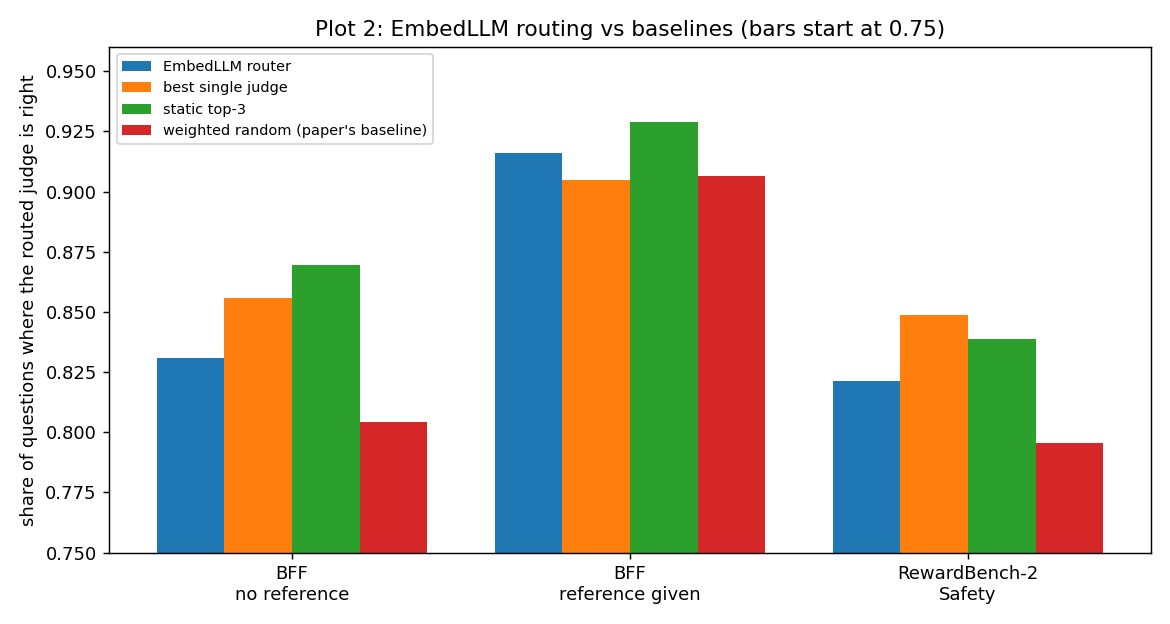
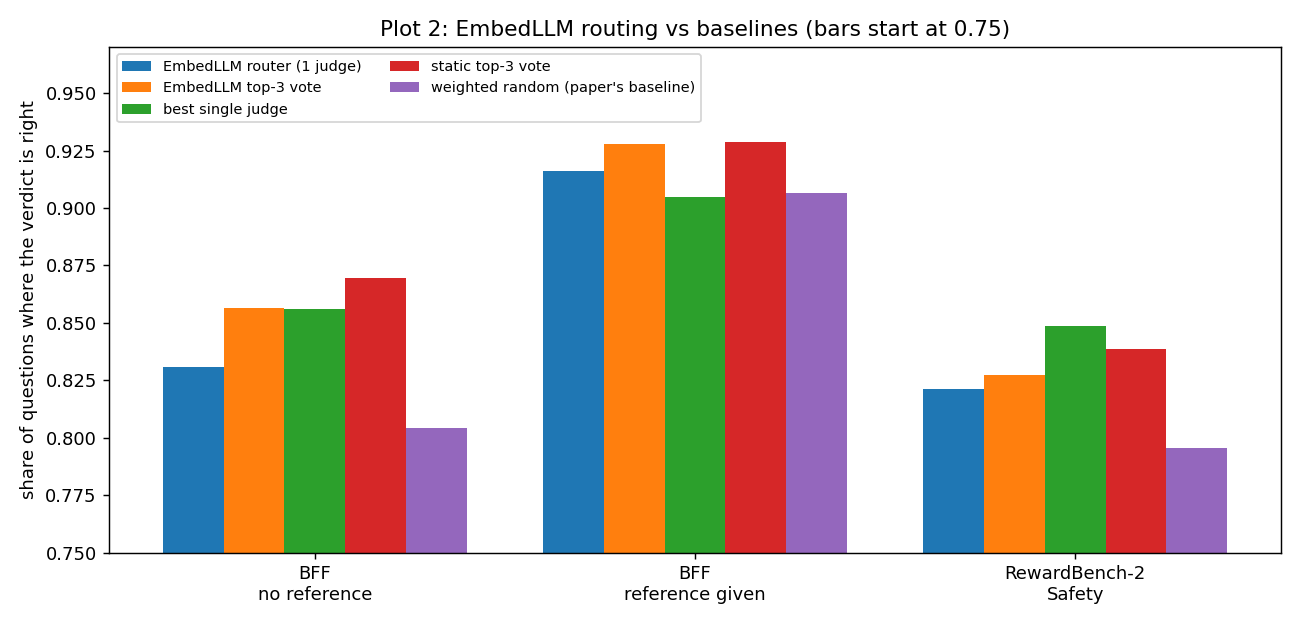
Add the EmbedLLM top-3 vote to the routing plot and table

diff --git a/experiments/embedllm/make_plots.py b/experiments/embedllm/make_plots.py
@@ -18,12 +18,13 @@ ax.set_title("Plot 1: EmbedLLM predicting whether a judge is right on unseen que
 fig.tight_layout(); fig.savefig(os.path.join(out, "embedllm_correctness.png"), dpi=130); plt.close(fig)
 
 # ---- Plot 2: routing accuracy vs baselines
-route = {"EmbedLLM router": [.8310, .9160, .8211], "best single judge": [.8559, .9049, .8486], "static top-3": [.8694, .9288, .8386],
+route = {"EmbedLLM router (1 judge)": [.8310, .9160, .8211], "EmbedLLM top-3 vote": [.8564, .9277, .8275],
+         "best single judge": [.8559, .9049, .8486], "static top-3 vote": [.8694, .9288, .8386],
          "weighted random (paper's baseline)": [.8043, .9066, .7956]}
-fig, ax = plt.subplots(figsize=(9, 4.8))
+fig, ax = plt.subplots(figsize=(10, 4.8))
 for j, (name, v) in enumerate(route.items()):
-    ax.bar([i + (j - 1.5) * 0.2 for i in range(3)], v, 0.2, label=name)
-ax.set_xticks(range(3)); ax.set_xticklabels(settings); ax.set_ylim(0.75, 0.96); ax.set_ylabel("share of questions where the routed judge is right")
-ax.set_title("Plot 2: EmbedLLM routing vs baselines (bars start at 0.75)"); ax.legend(fontsize=8, loc="upper left")
+    ax.bar([i + (j - 2) * 0.16 for i in range(3)], v, 0.16, label=name)
+ax.set_xticks(range(3)); ax.set_xticklabels(settings); ax.set_ylim(0.75, 0.97); ax.set_ylabel("share of questions where the verdict is right")
+ax.set_title("Plot 2: EmbedLLM routing vs baselines (bars start at 0.75)"); ax.legend(fontsize=8, loc="upper left", ncol=2)
 fig.tight_layout(); fig.savefig(os.path.join(out, "embedllm_routing.png"), dpi=130); plt.close(fig)
 print("saved", sorted(os.listdir(out)))

diff --git a/experiments/embedllm/README.md b/experiments/embedllm/README.md
@@ -19,11 +19,11 @@ question text -> frozen sentence encoder -> linear layer (trained) -+
 - **Training:** compare the predicted chance with the true 0 or 1 (cross-entropy loss) and update the judge vectors and the two layers (Adam).
 - **Routing:** for a new question, predict the chance for all 8 judges and use the highest-scoring judge.
 
-| Setting | Predict judge right: constant / kNN / EmbedLLM (accuracy) | Router: EmbedLLM / best single / top-3 |
+| Setting | Predict judge right: constant / kNN / EmbedLLM (accuracy) | Verdict accuracy: EmbedLLM router (1 judge) / EmbedLLM top-3 vote / best single / static top-3 |
 |---|---|---|
-| BFF, no reference | 0.765 / 0.757 / 0.761 | 0.831 / 0.856 / 0.869 |
-| BFF, reference given | 0.885 / 0.877 / 0.879 | 0.916 / 0.905 / 0.929 |
-| RewardBench-2 | 0.764 / 0.762 / 0.764 | 0.821 / 0.849 / 0.839 |
+| BFF, no reference | 0.765 / 0.757 / 0.761 | 0.831 / 0.856 / 0.856 / 0.869 |
+| BFF, reference given | 0.885 / 0.877 / 0.879 | 0.916 / 0.928 / 0.905 / 0.929 |
+| RewardBench-2 | 0.764 / 0.762 / 0.764 | 0.821 / 0.828 / 0.849 / 0.839 |
 
 Mean over 20 random 80/10/10 splits by question, prompt-only question text.
 
@@ -31,7 +31,7 @@ Mean over 20 random 80/10/10 splits by question, prompt-only question text.
 
 ![Plot 1: EmbedLLM correctness prediction](figures/embedllm_correctness.png)
 
-**Plot 2: routing accuracy of the EmbedLLM router against the baselines.** It beats the paper's weighted-random baseline everywhere, and is about the same as the best single judge at best.
+**Plot 2: how often the final verdict is right under each way of picking judges.** "EmbedLLM router" uses only the judge with the highest predicted chance. "EmbedLLM top-3 vote" takes the three judges with the highest predicted chance for each question and uses their majority vote. "Best single judge" always uses the same judge. "Static top-3" always uses the same three judges voting. "Weighted random" is the paper's baseline. The router beats the random baseline everywhere, and is about the same as the best single judge at best.
 
 ![Plot 2: EmbedLLM routing vs baselines](figures/embedllm_routing.png)
 
